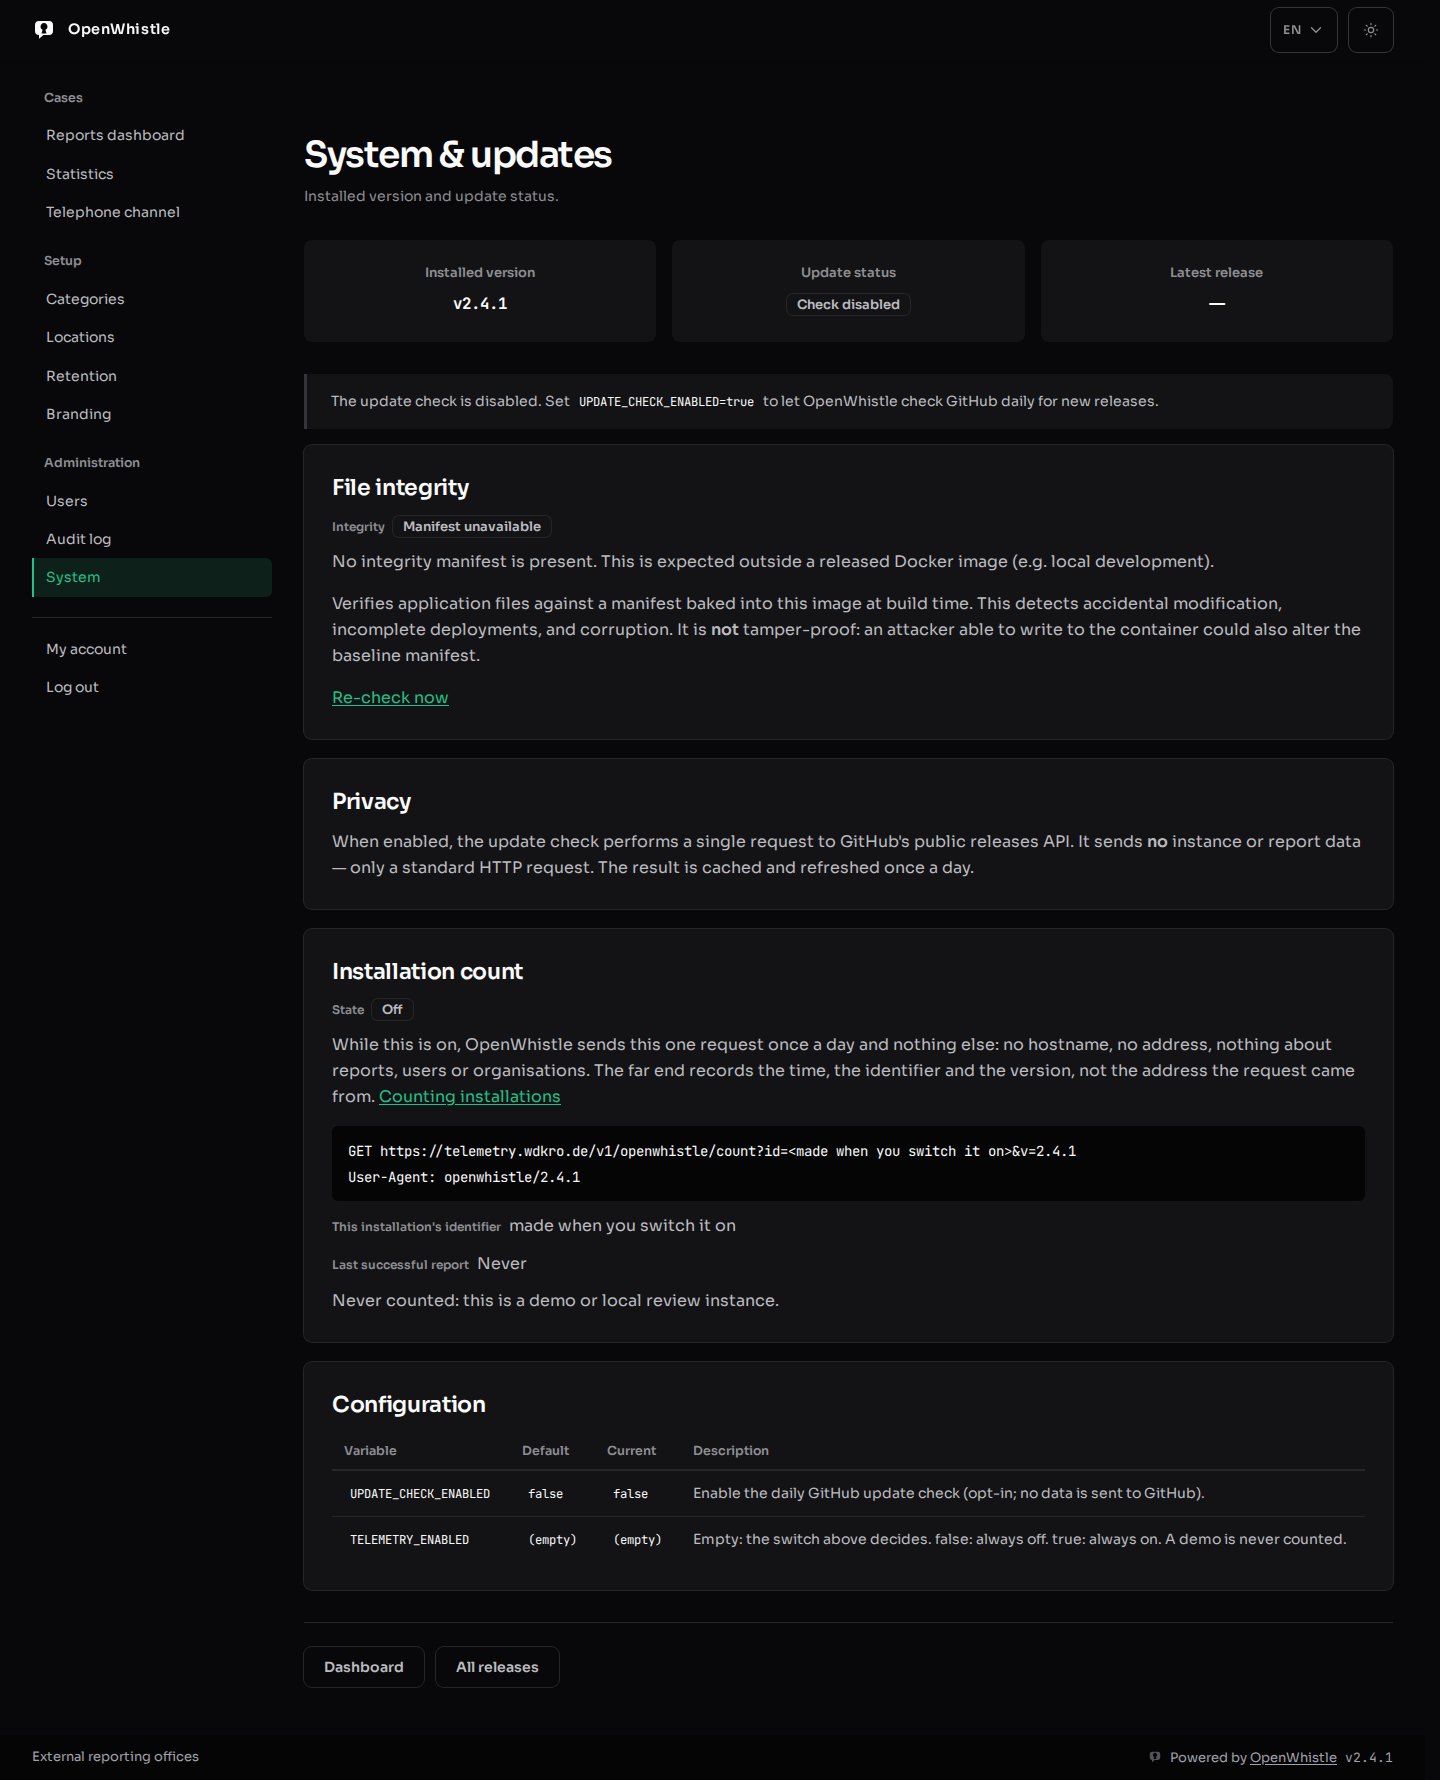
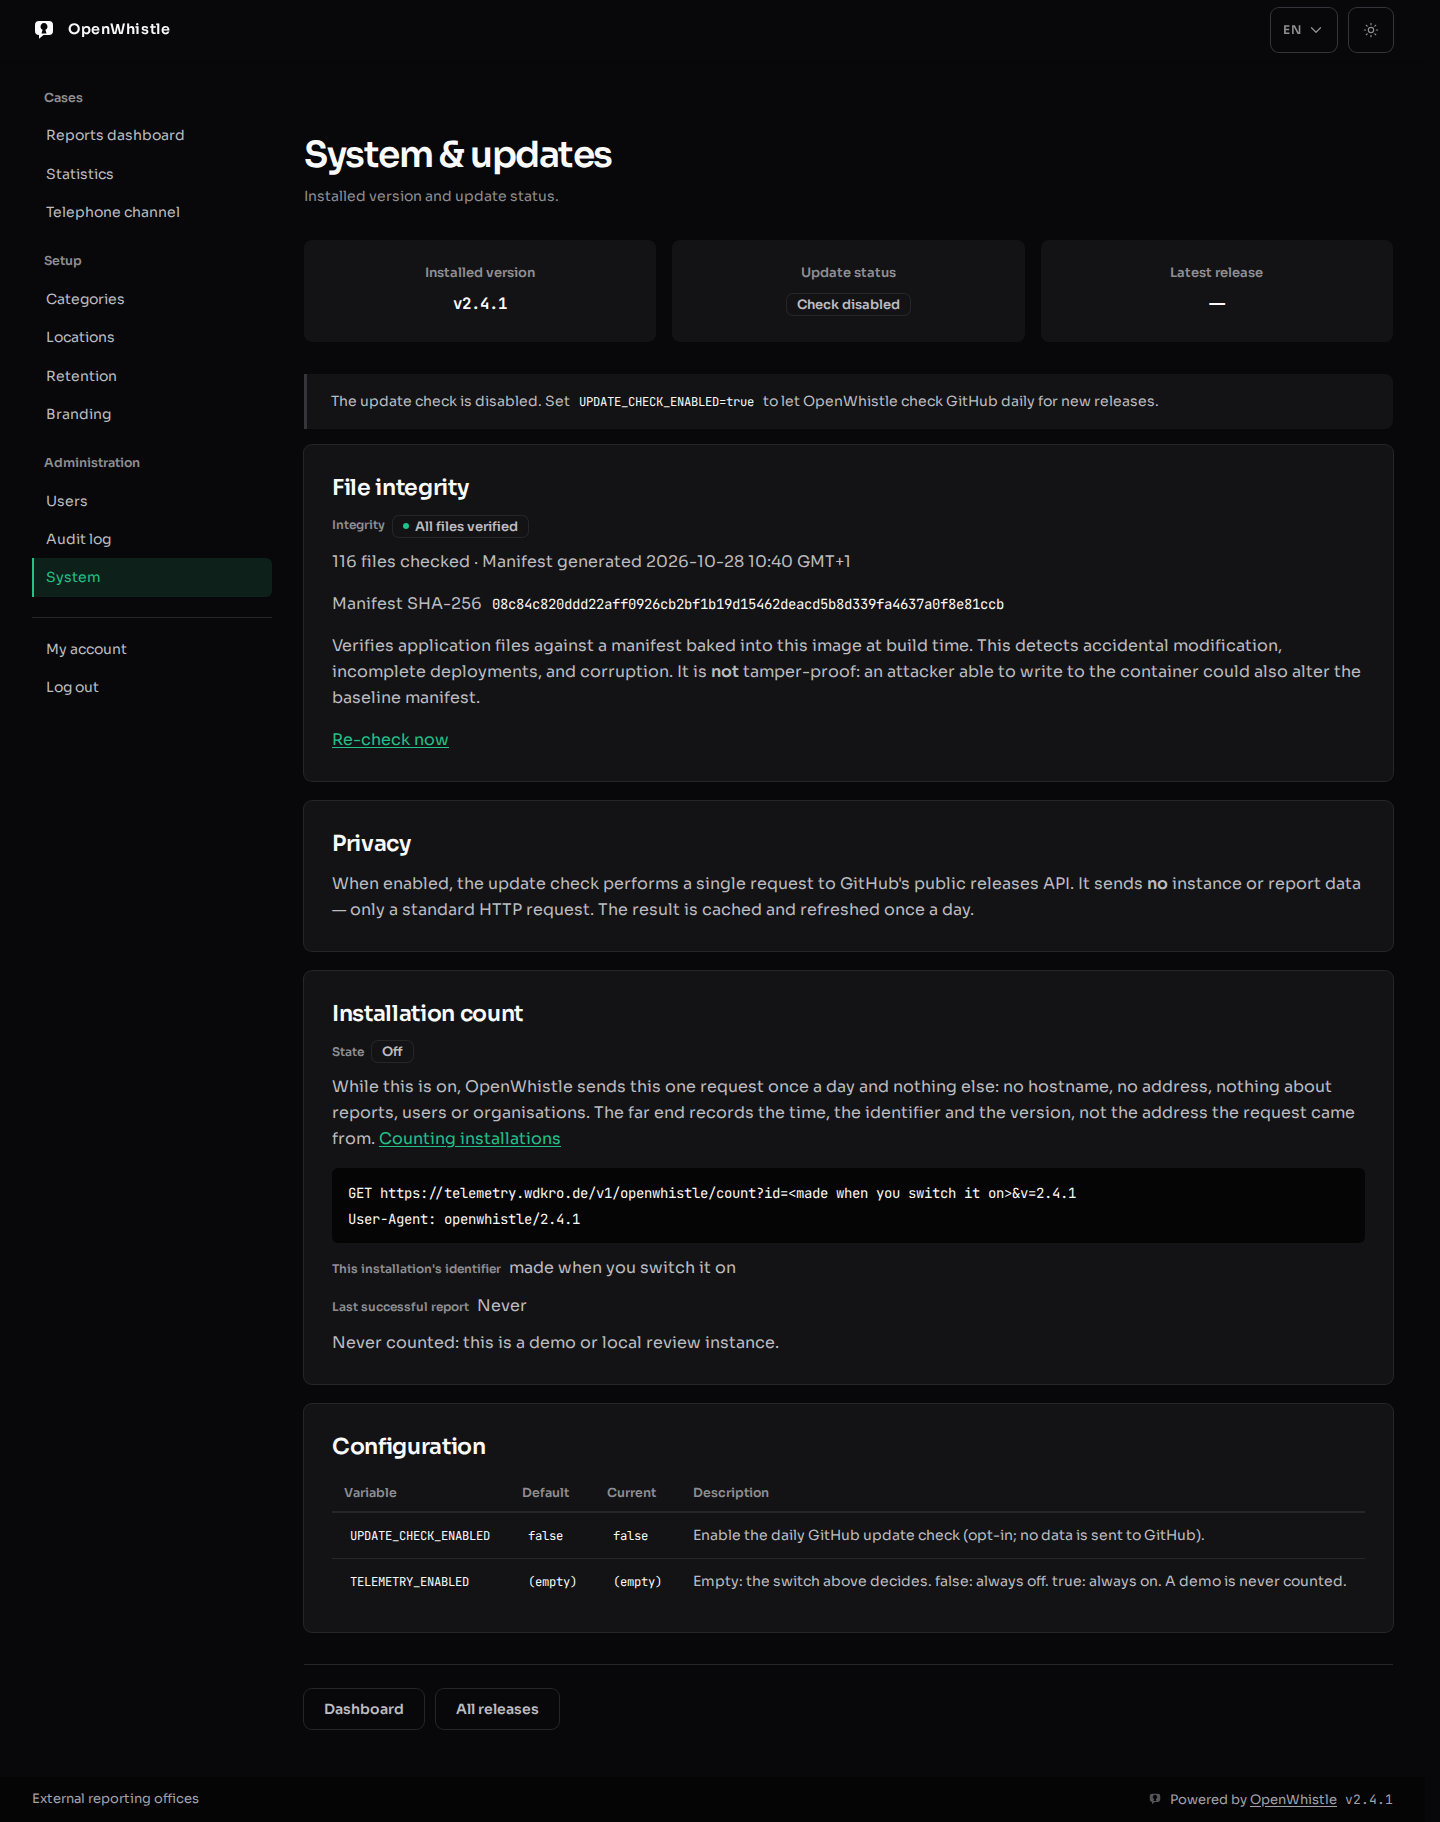
fix(release): take screenshots from the released image, add version spots
The first pass used a local-dev app, whose admin System page shows "integrity
manifest unavailable" and so renders 42 px shorter than the released image's
manifest-present state — test_docs_figures caught the mismatch. Re-taken from
the e2e+review stack (the production Dockerfile build, manifest baked in).

Also moves the release's version spots to 2.4.1: the homepage softwareVersion
and the current-release row of the software-comparison post (en + de), which
test_release_claims pins to the latest tag.

Claude-Session: https://claude.ai/code/session_011drqs62CQ8WWkcyCdV8WiT

diff --git a/docs/de/blog/whistleblower-software-vergleich.html b/docs/de/blog/whistleblower-software-vergleich.html
@@ -182,7 +182,7 @@ jsonld:
               </thead>
               <tbody>
                 <tr><td>Seit</td><td data-label="GlobaLeaks">2011 <a class="cite" href="#q1">[1]</a></td><td class="col-ow" data-label="OpenWhistle">April 2026 (0.1.0)</td></tr>
-                <tr><td>Aktuelles Release</td><td data-label="GlobaLeaks">5.0.99, 26. Juli 2026 <a class="cite" href="#q3">[3]</a></td><td class="col-ow" data-label="OpenWhistle">2.4.0, 15. Oktober 2026</td></tr>
+                <tr><td>Aktuelles Release</td><td data-label="GlobaLeaks">5.0.99, 26. Juli 2026 <a class="cite" href="#q3">[3]</a></td><td class="col-ow" data-label="OpenWhistle">2.4.1, 28. Oktober 2026</td></tr>
                 <tr><td>Lizenz</td><td data-label="GlobaLeaks">AGPL-3.0 <a class="cite" href="#q2">[2]</a></td><td class="col-ow" data-label="OpenWhistle">GPL-3.0</td></tr>
                 <tr><td>Programmiersprache</td><td data-label="GlobaLeaks">Python, TypeScript <a class="cite" href="#q2">[2]</a></td><td class="col-ow" data-label="OpenWhistle">Python</td></tr>
                 <tr><td>Installation</td><td data-label="GlobaLeaks">Debian, Ubuntu; Docker <a class="cite" href="#q4">[4]</a> <a class="cite" href="#q5">[5]</a></td><td class="col-ow" data-label="OpenWhistle">Docker Compose, Helm</td></tr>

diff --git a/docs/en/blog/whistleblowing-software-comparison.html b/docs/en/blog/whistleblowing-software-comparison.html
@@ -182,7 +182,7 @@ jsonld:
               </thead>
               <tbody>
                 <tr><td>Since</td><td data-label="GlobaLeaks">2011 <a class="cite" href="#q1">[1]</a></td><td class="col-ow" data-label="OpenWhistle">April 2026 (0.1.0)</td></tr>
-                <tr><td>Current release</td><td data-label="GlobaLeaks">5.0.99, 26 July 2026 <a class="cite" href="#q3">[3]</a></td><td class="col-ow" data-label="OpenWhistle">2.4.0, 15 October 2026</td></tr>
+                <tr><td>Current release</td><td data-label="GlobaLeaks">5.0.99, 26 July 2026 <a class="cite" href="#q3">[3]</a></td><td class="col-ow" data-label="OpenWhistle">2.4.1, 28 October 2026</td></tr>
                 <tr><td>Licence</td><td data-label="GlobaLeaks">AGPL-3.0 <a class="cite" href="#q2">[2]</a></td><td class="col-ow" data-label="OpenWhistle">GPL-3.0</td></tr>
                 <tr><td>Programming language</td><td data-label="GlobaLeaks">Python, TypeScript <a class="cite" href="#q2">[2]</a></td><td class="col-ow" data-label="OpenWhistle">Python</td></tr>
                 <tr><td>Installation</td><td data-label="GlobaLeaks">Debian, Ubuntu; Docker <a class="cite" href="#q4">[4]</a> <a class="cite" href="#q5">[5]</a></td><td class="col-ow" data-label="OpenWhistle">Docker Compose, Helm</td></tr>

diff --git a/docs/de/index.html b/docs/de/index.html
@@ -21,7 +21,7 @@ jsonld:
     price: '0'
     priceCurrency: EUR
   license: https://www.gnu.org/licenses/gpl-3.0.html
-  softwareVersion: 2.4.0
+  softwareVersion: 2.4.1
   downloadUrl: https://github.com/openwhistle/OpenWhistle/releases/latest
   installUrl: https://openwhistle.net/en/docs/install/
   softwareHelp:

diff --git a/docs/en/index.html b/docs/en/index.html
@@ -21,7 +21,7 @@ jsonld:
     price: '0'
     priceCurrency: EUR
   license: https://www.gnu.org/licenses/gpl-3.0.html
-  softwareVersion: 2.4.0
+  softwareVersion: 2.4.1
   downloadUrl: https://github.com/openwhistle/OpenWhistle/releases/latest
   installUrl: https://openwhistle.net/en/docs/install/
   softwareHelp:
